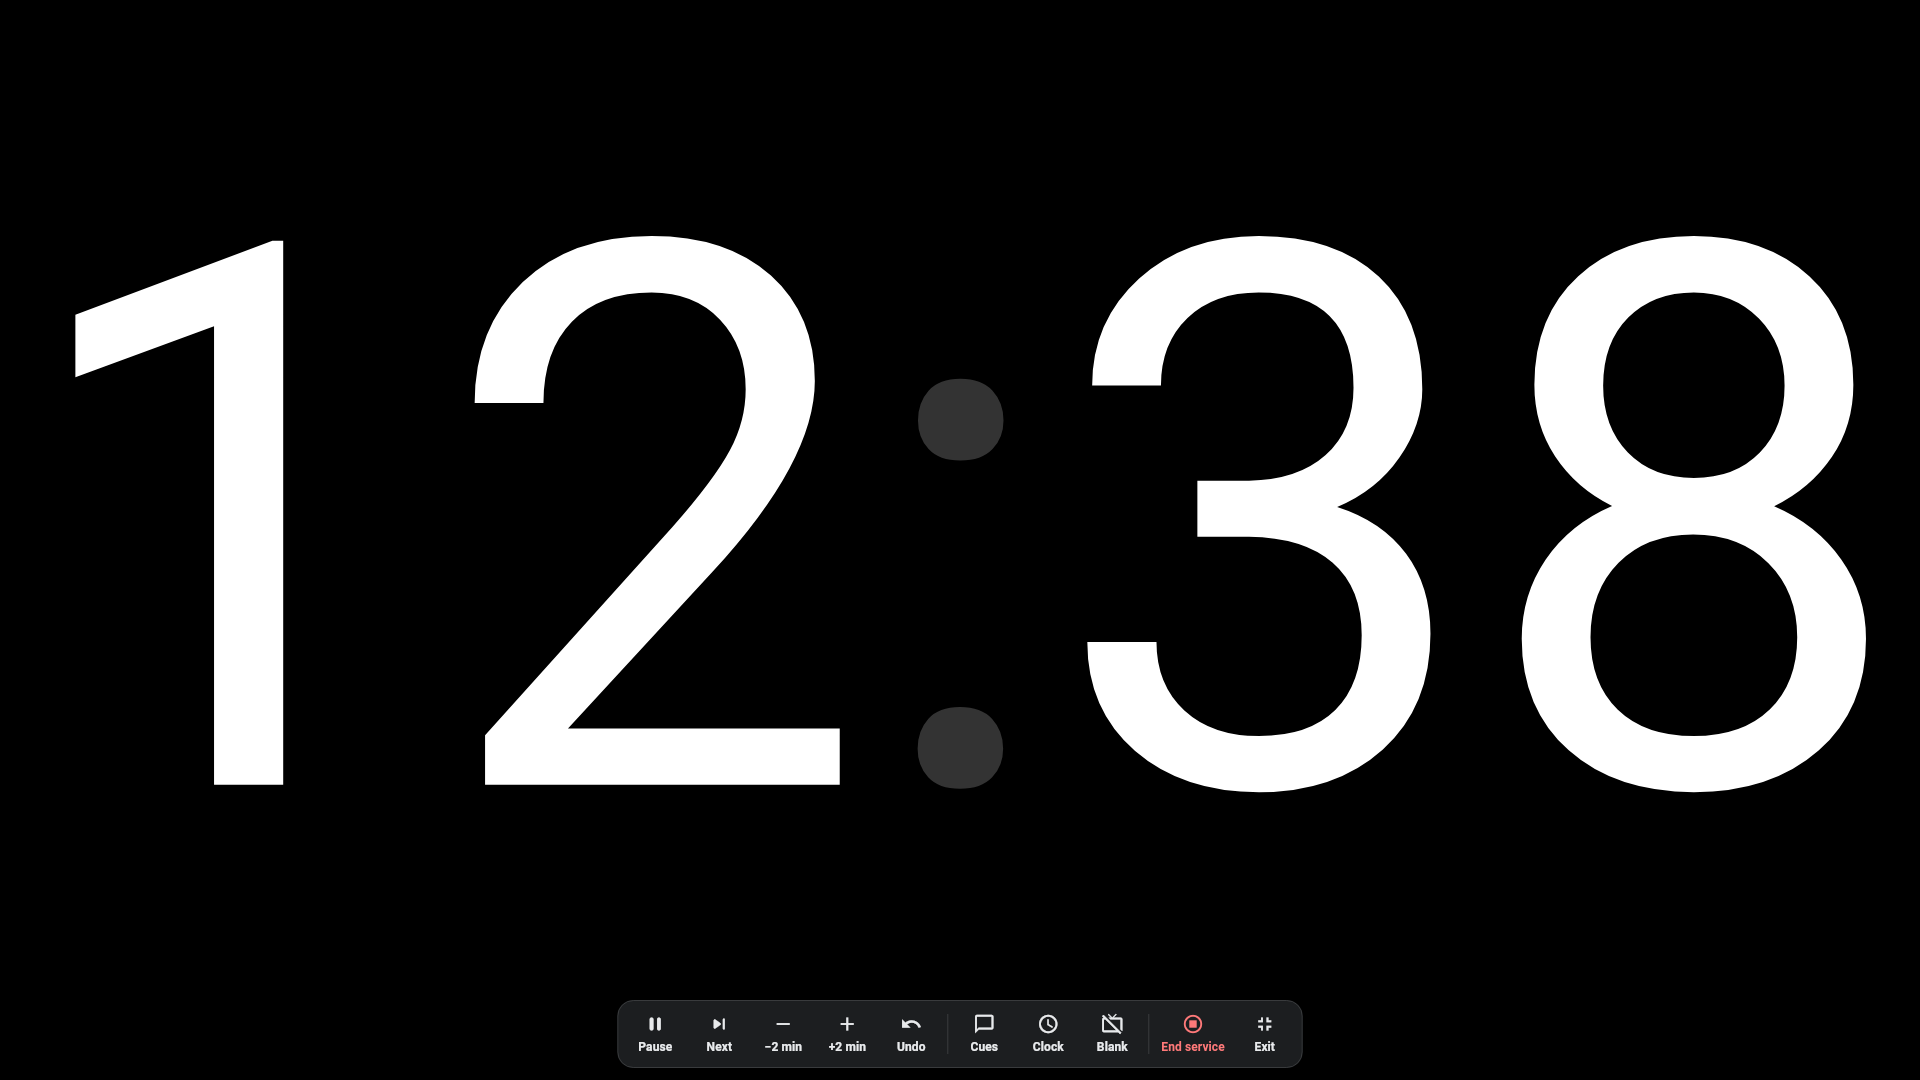
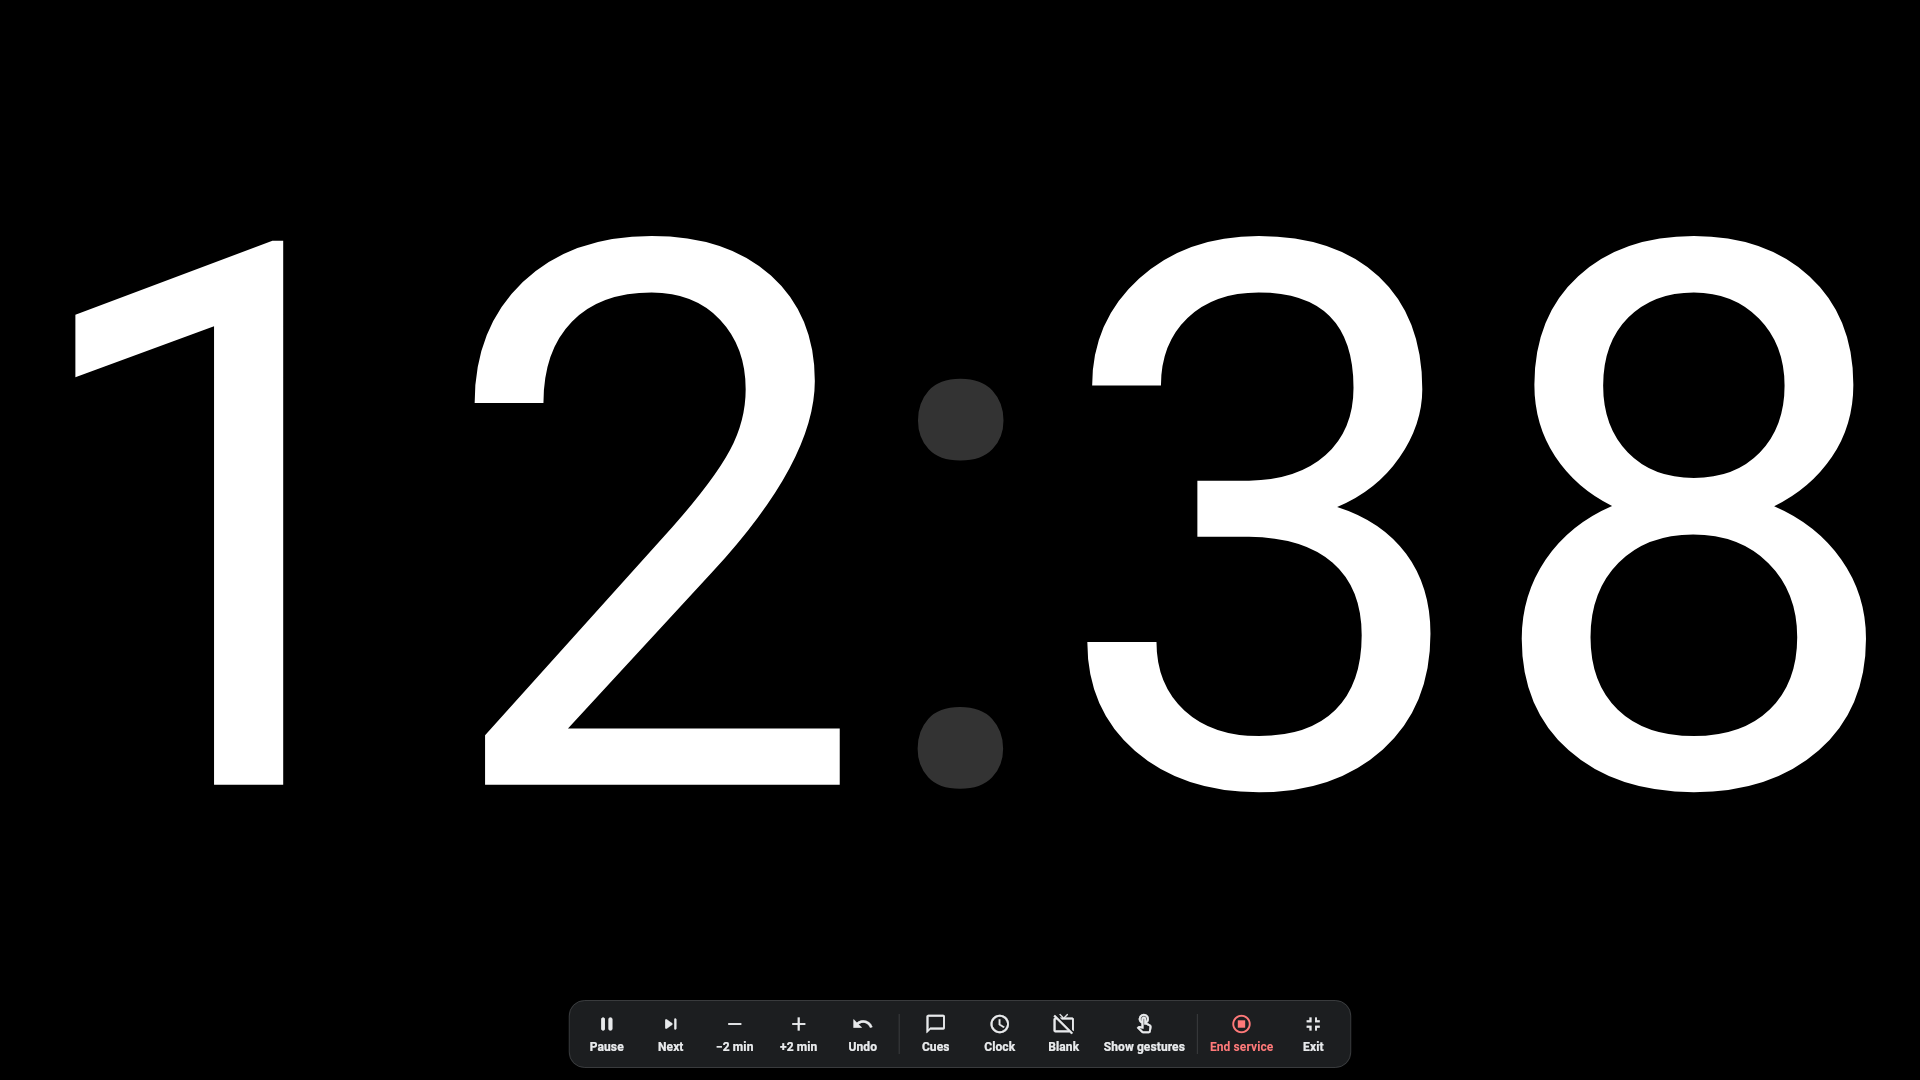
Refresh fifteen screenshots and add five for 0.36.0

Changed region(s): [[0.2812, 0.9167, 0.7188, 1.0]]

diff --git a/site/assets/images/README.md b/site/assets/images/README.md
@@ -6,6 +6,8 @@ Every file was re-compressed without loss (oxipng), so the pixels match the prev
 
 For the 0.35.0 handbook, every file in both tables was compared, pixel for pixel, with the preview on the app's main branch (6d3f0c6). Thirteen had changed and were copied again: program-editor.png, stage-layout.png, desktop-mission-control.png, desktop-mission-control-large.png, second-screen-live.png, full-screen-confirm.png, stage-simulator.png, shortcuts.png, commands.png, cue-banner.png, cue-editor-switch.png, stage-cues-desktop.png and desktop-three-panes-laptop.png. Six more were added for the clock in place of an end screen, Classic in a narrow window and the line of keys on a laptop. Before those, twelve were added: the full-screen tray on a PC and a phone, About with the automatic check on a phone and a PC, the update notice on Live on a phone and a PC, Ready in each of the five desktop layouts, and Three panes in a laptop-sized window. All of these were re-compressed without loss with Pillow, as oxipng was not to hand, and each was checked to match its preview pixel for pixel. The version numbers they show ("0.33.0 is available", "Version 0.0.0 (test)") are sample data.
 
+For the 0.36.0 handbook, every file in both tables was compared, by its pixels, with the preview on the app's main branch (release 0.36.0, cb2602b). Fifteen had changed and were copied again: full-screen-tray-phone.png, full-screen-tray.png, desktop-mission-control.png, desktop-mission-control-large.png, desktop-three-panes.png, desktop-three-panes-1366.png, desktop-dial.png, desktop-keys.png, desktop-ready-keys.png, second-screen-live.png, stage-simulator.png, shortcuts.png, commands.png, desktop-classic-narrow.png and desktop-classic-1024.png. The rest matched. desktop-classic.png, scaled from its preview, was compared after scaling and matched. reports-desktop.png and mini-timer.png are rendered for the handbook and were not rendered again. Five were added: whats-new-notice.png and whats-new-notice-pc.png (the Updated to notice), full-screen-tip-phone.png and full-screen-tip.png (the gestures tip), and send-message-stage.png (Send message with the switch on Stage screen). All were saved without changing a pixel and re-compressed without loss with Pillow. The version in the notice, 0.36.0, is the release itself.
+
 ## Phone and tablet
 
 | Public filename | Original fixture |
@@ -33,6 +35,9 @@ For the 0.35.0 handbook, every file in both tables was compared, pixel for pixel
 | update-notice.png | update-notice-live-phone.png |
 | full-screen-tray-phone.png | host-full-screen-tray-phone.png |
 | no-end-screen-phone.png | no-end-screen-editor-phone.png |
+| whats-new-notice.png | whats-new-notice-live-phone.png |
+| full-screen-tip-phone.png | host-full-screen-tip-phone.png |
+| send-message-stage.png | send-message-stage-phone.png |
 
 ## PC (wide window) and stage
 
@@ -76,6 +81,8 @@ For the 0.35.0 handbook, every file in both tables was compared, pixel for pixel
 | desktop-classic-1024.png | desktop-classic-1024.png |
 | desktop-three-panes-1366.png | desktop-three-panes-1366.png |
 | update-notice-pc.png | update-notice-live-1366.png |
+| whats-new-notice-pc.png | whats-new-notice-live-1366.png |
+| full-screen-tip.png | host-full-screen-tip-1920.png |
 | stage-cues-desktop.png | desktop-settings-stage-cues-stage-screen.png |
 | warnings-desktop.png | desktop-settings-warnings.png |
 | programs-desktop.png | desktop-programs.png |
